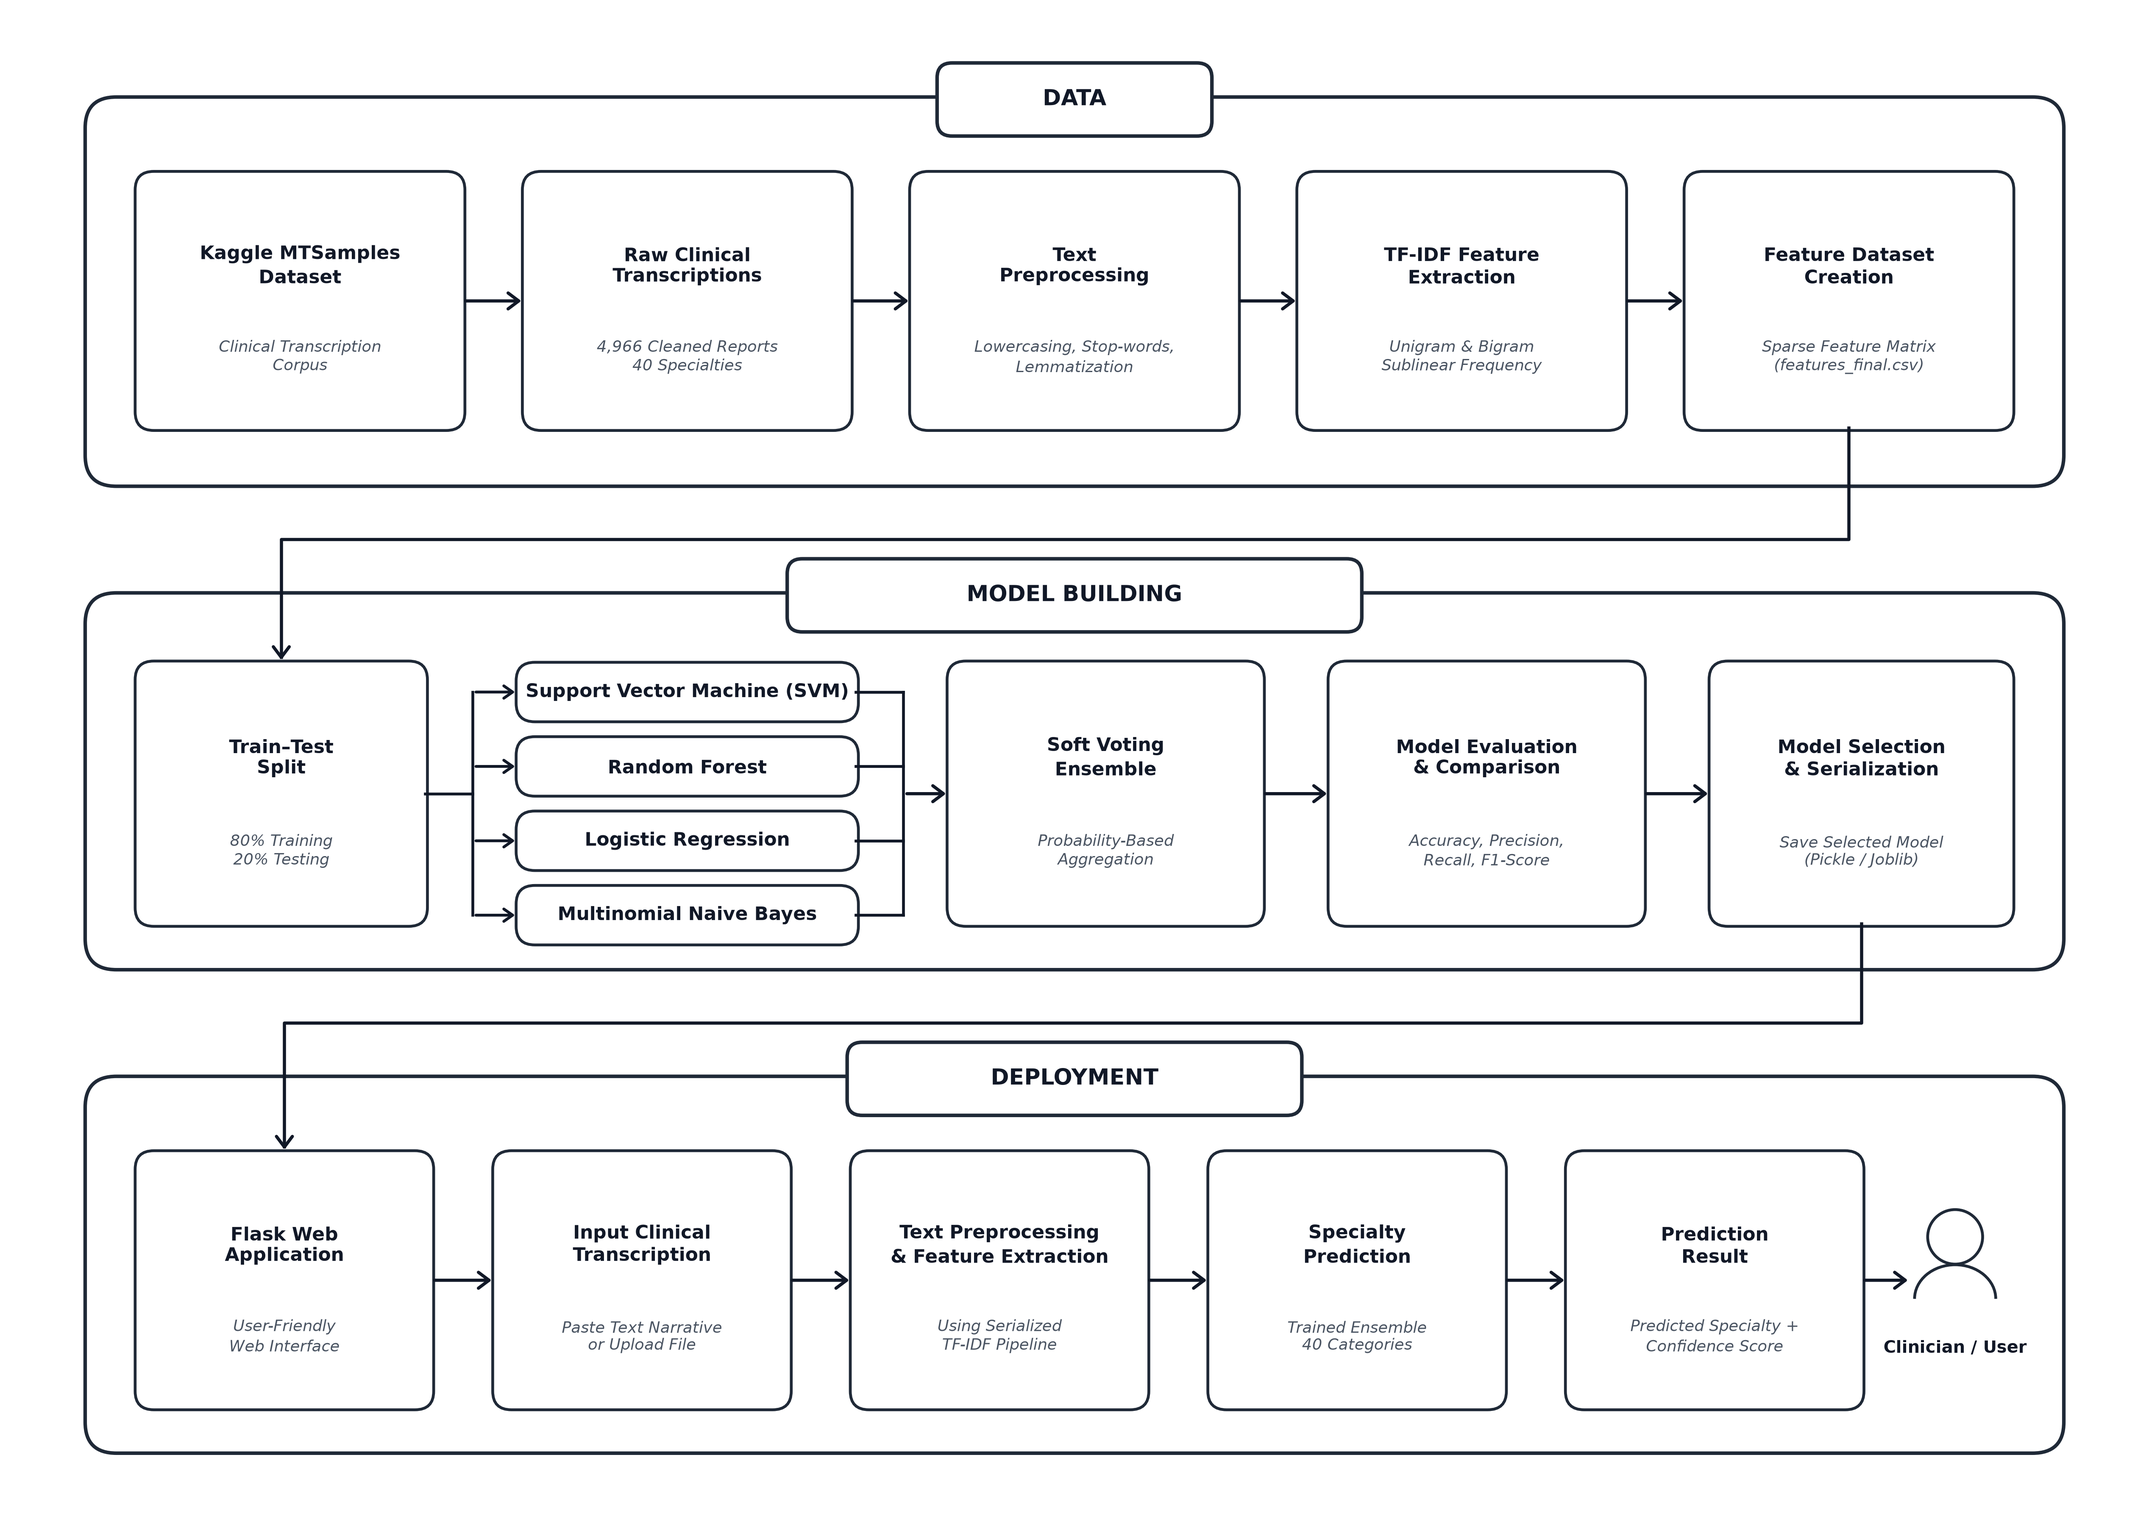
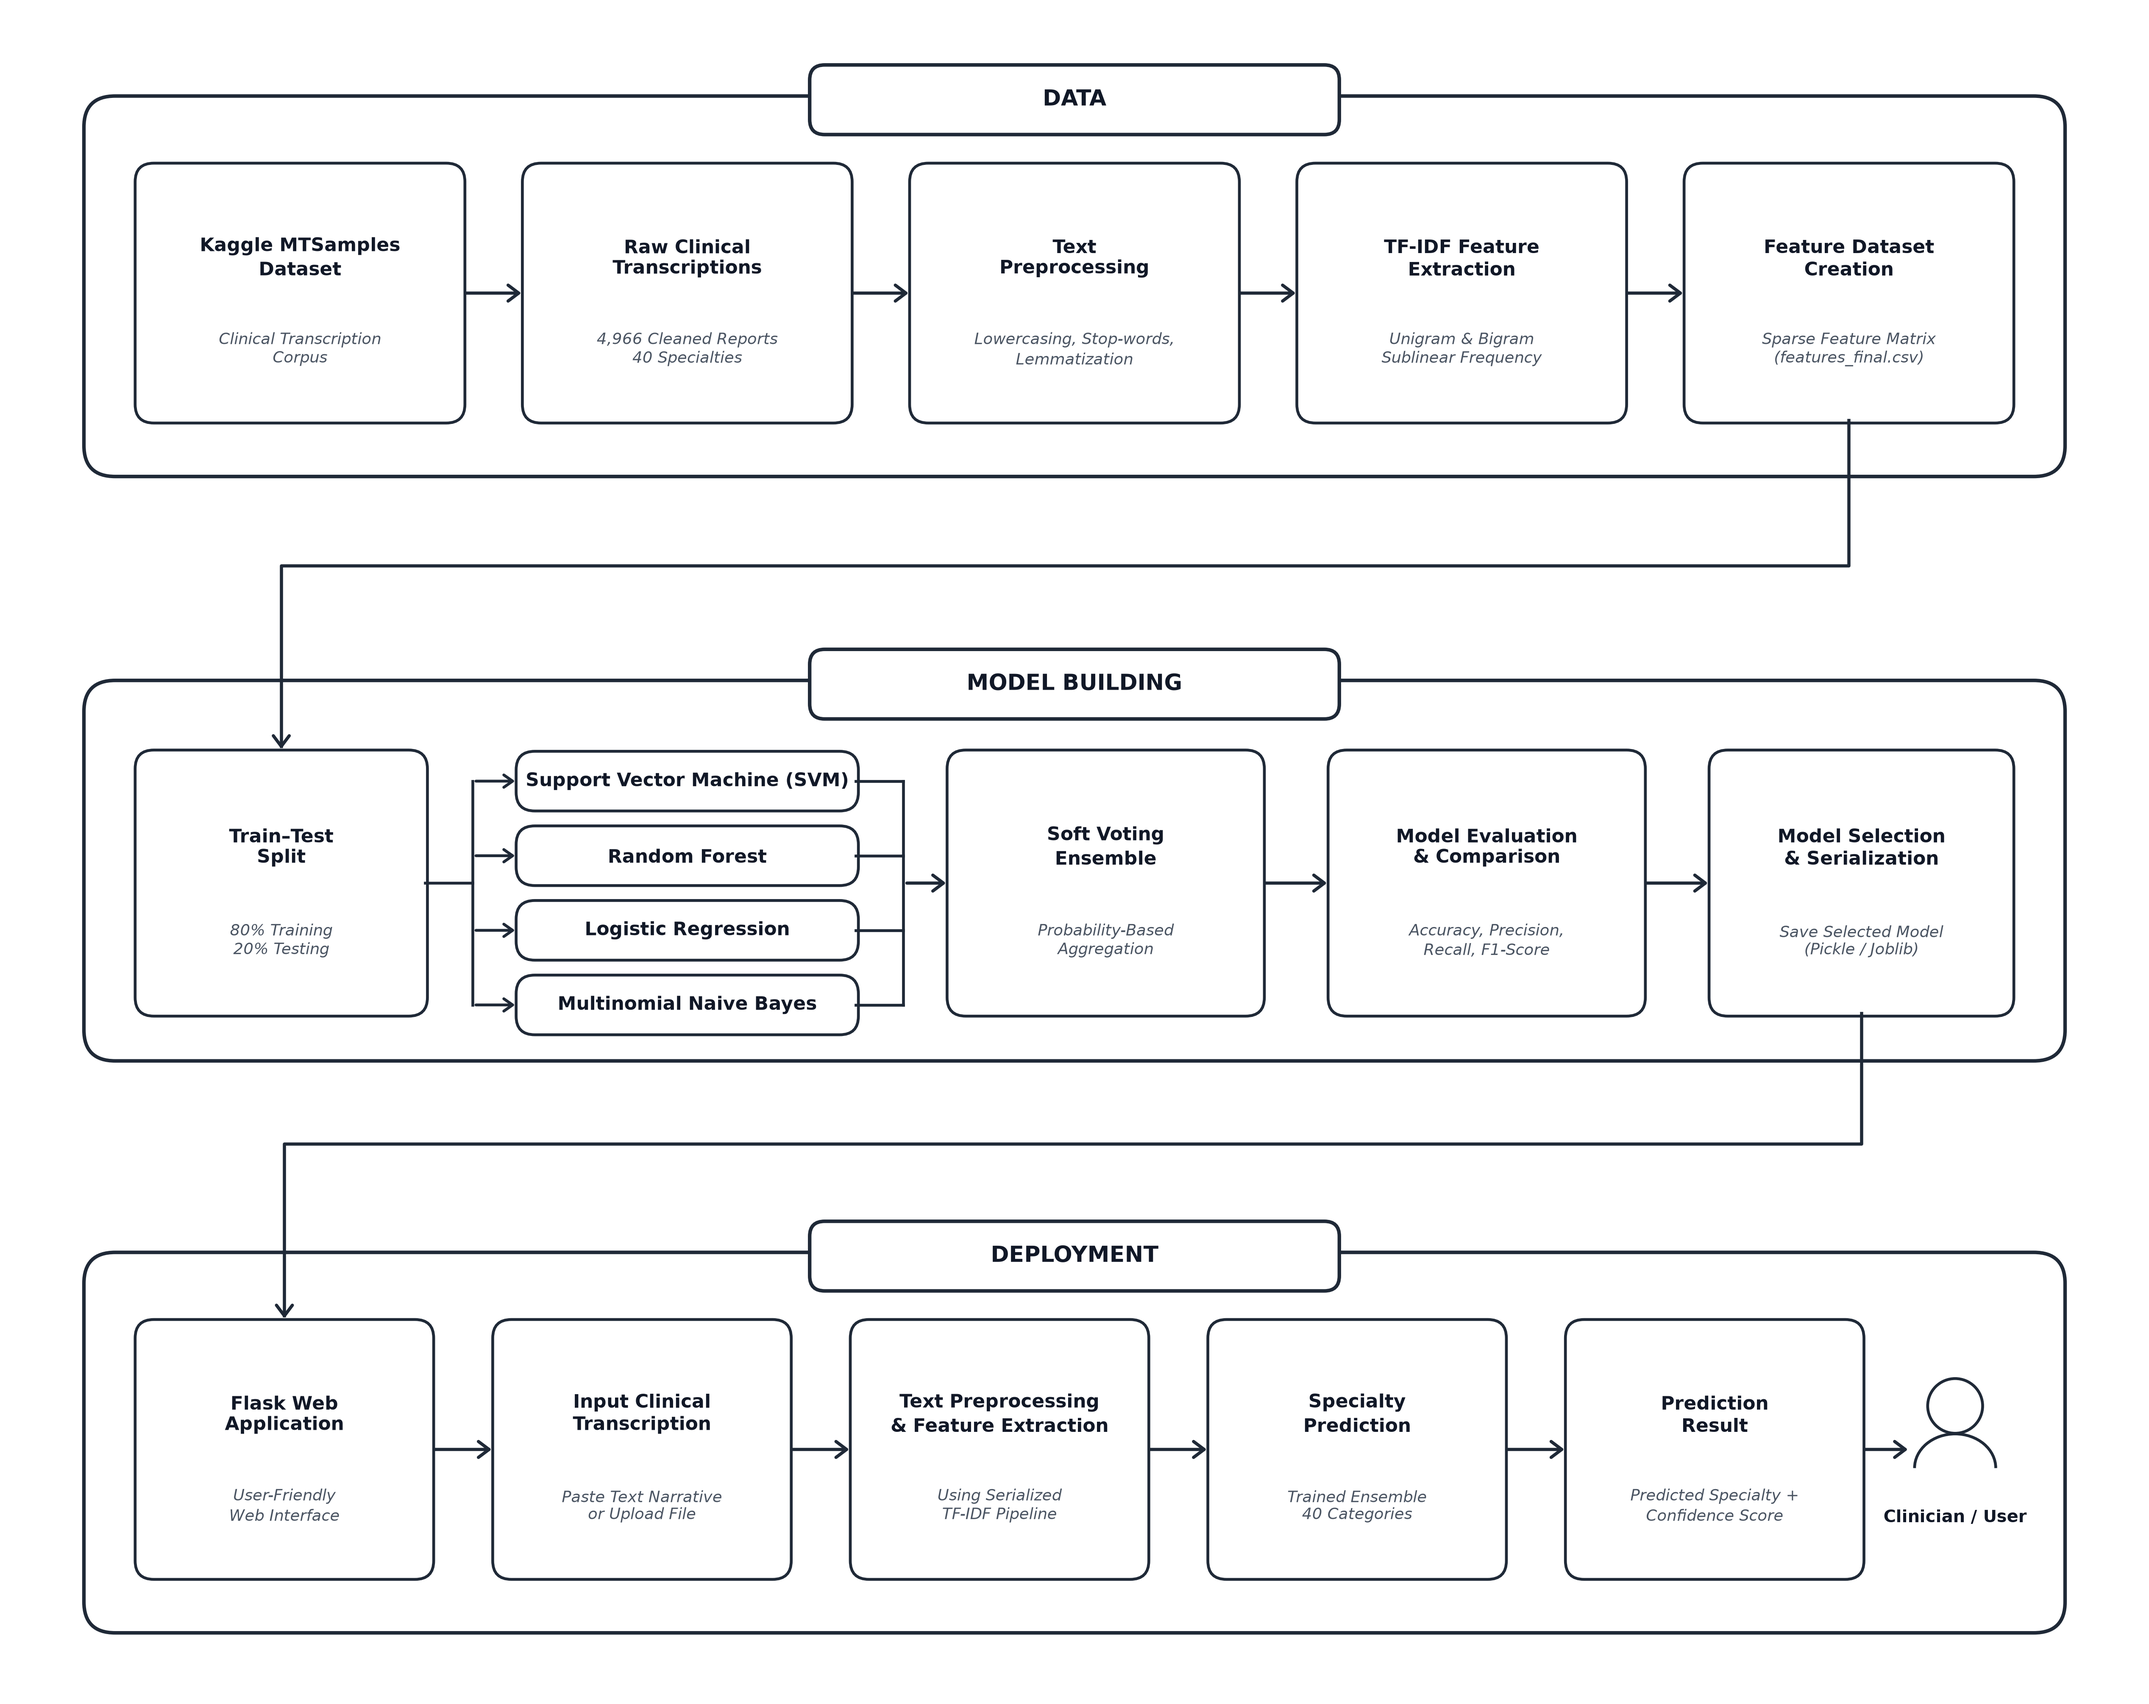
feat: add system architecture visualization script and documentation for chapter 3

diff --git a/generate_pipeline.py b/generate_pipeline.py
@@ -1,0 +1,171 @@
+import matplotlib.pyplot as plt
+import matplotlib.patches as patches
+
+# Set up canvas
+fig, ax = plt.subplots(figsize=(17, 13.5), dpi=300)
+ax.set_xlim(0, 17)
+ax.set_ylim(0, 13.5)
+ax.axis('off')
+
+# Styling palette (Clean Monochrome / Minimalist Academic)
+BORDER_COLOR = '#1F2937'  # Dark slate gray
+LINE_COLOR = '#1F2937'
+
+def draw_container(ax, x, y, w, h, title):
+    # Main rounded container box
+    rect = patches.FancyBboxPatch((x, y), w, h, boxstyle='round,pad=0.03,rounding_size=0.25',
+                                  facecolor='#FFFFFF', edgecolor=BORDER_COLOR, linewidth=2.0)
+    ax.add_patch(rect)
+    
+    # Title badge / tab centered on top border
+    tw, th = 4.2, 0.52
+    tx = x + (w - tw) / 2
+    ty = y + h - th / 2
+    tab = patches.FancyBboxPatch((tx, ty), tw, th, boxstyle='round,pad=0.02,rounding_size=0.12',
+                                 facecolor='#FFFFFF', edgecolor=BORDER_COLOR, linewidth=2.0)
+    ax.add_patch(tab)
+    ax.text(tx + tw/2, ty + th/2, title, ha='center', va='center', fontsize=12.5, fontweight='bold', color='#111827')
+
+def draw_box(ax, x, y, w, h, title, subtitle=''):
+    rect = patches.FancyBboxPatch((x, y), w, h, boxstyle='round,pad=0.02,rounding_size=0.15',
+                                  facecolor='#FFFFFF', edgecolor=BORDER_COLOR, linewidth=1.6)
+    ax.add_patch(rect)
+    if subtitle:
+        ax.text(x + w/2, y + h*0.64, title, ha='center', va='center', fontsize=10.5, fontweight='bold', color='#111827', linespacing=1.2)
+        ax.text(x + w/2, y + h*0.28, subtitle, ha='center', va='center', fontsize=8.8, color='#4B5563', style='italic', linespacing=1.2)
+    else:
+        ax.text(x + w/2, y + h/2, title, ha='center', va='center', fontsize=10.5, fontweight='bold', color='#111827', linespacing=1.2)
+
+# ======================== CONTAINER 1: DATA ========================
+c1_x, c1_y, c1_w, c1_h = 0.6, 9.8, 15.8, 3.0
+draw_container(ax, c1_x, c1_y, c1_w, c1_h, 'DATA')
+
+b_w = 2.6
+b_h = 2.05
+b_y = 10.22
+gaps = (c1_w - 0.8 - 5 * b_w) / 4
+xs = [c1_x + 0.4 + i * (b_w + gaps) for i in range(5)]
+
+draw_box(ax, xs[0], b_y, b_w, b_h, 'Kaggle MTSamples\nDataset', 'Clinical Transcription\nCorpus')
+draw_box(ax, xs[1], b_y, b_w, b_h, 'Raw Clinical\nTranscriptions', '4,966 Cleaned Reports\n40 Specialties')
+draw_box(ax, xs[2], b_y, b_w, b_h, 'Text\nPreprocessing', 'Lowercasing, Stop-words,\nLemmatization')
+draw_box(ax, xs[3], b_y, b_w, b_h, 'TF-IDF Feature\nExtraction', 'Unigram & Bigram\nSublinear Frequency')
+draw_box(ax, xs[4], b_y, b_w, b_h, 'Feature Dataset\nCreation', 'Sparse Feature Matrix\n(features_final.csv)')
+
+for i in range(4):
+    ax.annotate('', xy=(xs[i+1], b_y + b_h/2), xytext=(xs[i] + b_w, b_y + b_h/2),
+                arrowprops=dict(arrowstyle='->,head_width=0.45,head_length=0.6', color=LINE_COLOR, lw=1.8))
+
+# ======================== CONTAINER 2: MODEL BUILDING ========================
+c2_x, c2_y, c2_w, c2_h = 0.6, 5.1, 15.8, 3.0
+draw_container(ax, c2_x, c2_y, c2_w, c2_h, 'MODEL BUILDING')
+
+# Box 1: Train-Test Split
+m1_x = c2_x + 0.4
+m1_w = 2.3
+m1_h = 2.1
+m1_y = 5.45
+draw_box(ax, m1_x, m1_y, m1_w, m1_h, 'Train–Test\nSplit', '80% Training\n20% Testing')
+
+# Route from Container 1 (Feature Dataset) to Container 2 (Train-Test Split)
+# Channel 1: y between 8.36 (MODEL BUILDING tab top) and 9.8 (Container 1 bottom).
+# Midline is at y = 9.05, offering >0.68 clearance above section heading tab!
+p1_start = (xs[4] + b_w/2, b_y)
+m1_top_center = (m1_x + m1_w/2, m1_y + m1_h)
+ax.plot([p1_start[0], p1_start[0], m1_top_center[0], m1_top_center[0]],
+        [p1_start[1], 9.05, 9.05, m1_top_center[1] + 0.05], color=LINE_COLOR, lw=1.8)
+ax.annotate('', xy=m1_top_center, xytext=(m1_top_center[0], m1_top_center[1] + 0.1),
+            arrowprops=dict(arrowstyle='->,head_width=0.45,head_length=0.6', color=LINE_COLOR, lw=1.8))
+
+# 4 Models Stack
+c_x = m1_x + m1_w + 0.75
+c_w = 2.7
+c_h = 0.44
+c_ys = [7.1, 6.5, 5.9, 5.3]
+draw_box(ax, c_x, c_ys[0], c_w, c_h, 'Support Vector Machine (SVM)')
+draw_box(ax, c_x, c_ys[1], c_w, c_h, 'Random Forest')
+draw_box(ax, c_x, c_ys[2], c_w, c_h, 'Logistic Regression')
+draw_box(ax, c_x, c_ys[3], c_w, c_h, 'Multinomial Naive Bayes')
+
+# Orthogonal Bus from Train-Test Split to 4 Models
+bus1_x = m1_x + m1_w + 0.38
+mid_y = 6.5
+ax.plot([m1_x + m1_w, bus1_x], [mid_y, mid_y], color=LINE_COLOR, lw=1.6)
+ax.plot([bus1_x, bus1_x], [c_ys[3] + c_h/2, c_ys[0] + c_h/2], color=LINE_COLOR, lw=1.6)
+for cy in c_ys:
+    ax.annotate('', xy=(c_x, cy + c_h/2), xytext=(bus1_x, cy + c_h/2),
+                arrowprops=dict(arrowstyle='->,head_width=0.35,head_length=0.5', color=LINE_COLOR, lw=1.6))
+
+# Box 3: Soft Voting Ensemble
+ens_x = c_x + c_w + 0.75
+ens_w = 2.5
+ens_h = 2.1
+draw_box(ax, ens_x, m1_y, ens_w, ens_h, 'Soft Voting\nEnsemble', 'Probability-Based\nAggregation')
+
+# Orthogonal Bus from 4 Models to Voting Ensemble
+bus2_x = c_x + c_w + 0.38
+ax.plot([bus2_x, bus2_x], [c_ys[3] + c_h/2, c_ys[0] + c_h/2], color=LINE_COLOR, lw=1.6)
+for cy in c_ys:
+    ax.plot([c_x + c_w, bus2_x], [cy + c_h/2, cy + c_h/2], color=LINE_COLOR, lw=1.6)
+ax.annotate('', xy=(ens_x, mid_y), xytext=(bus2_x, mid_y),
+            arrowprops=dict(arrowstyle='->,head_width=0.45,head_length=0.6', color=LINE_COLOR, lw=1.8))
+
+# Box 4: Model Evaluation & Comparison
+eval_x = ens_x + ens_w + 0.55
+eval_w = 2.5
+draw_box(ax, eval_x, m1_y, eval_w, ens_h, 'Model Evaluation\n& Comparison', 'Accuracy, Precision,\nRecall, F1-Score')
+ax.annotate('', xy=(eval_x, mid_y), xytext=(ens_x + ens_w, mid_y),
+            arrowprops=dict(arrowstyle='->,head_width=0.45,head_length=0.6', color=LINE_COLOR, lw=1.8))
+
+# Box 5: Model Selection & Serialization
+best_x = eval_x + eval_w + 0.55
+best_w = 2.4
+draw_box(ax, best_x, m1_y, best_w, ens_h, 'Model Selection\n& Serialization', 'Save Selected Model\n(Pickle / Joblib)')
+ax.annotate('', xy=(best_x, mid_y), xytext=(eval_x + eval_w, mid_y),
+            arrowprops=dict(arrowstyle='->,head_width=0.45,head_length=0.6', color=LINE_COLOR, lw=1.8))
+
+# ======================== CONTAINER 3: DEPLOYMENT ========================
+c3_x, c3_y, c3_w, c3_h = 0.6, 0.5, 15.8, 3.0
+draw_container(ax, c3_x, c3_y, c3_w, c3_h, 'DEPLOYMENT')
+
+# 5 Boxes in Deployment
+dep_w = 2.35
+dep_h = 2.05
+dep_y = 0.92
+dep_gaps = (c3_w - 0.8 - 5 * dep_w - 1.2) / 4
+dep_xs = [c3_x + 0.4 + i * (dep_w + dep_gaps) for i in range(5)]
+
+draw_box(ax, dep_xs[0], dep_y, dep_w, dep_h, 'Flask Web\nApplication', 'User-Friendly\nWeb Interface')
+draw_box(ax, dep_xs[1], dep_y, dep_w, dep_h, 'Input Clinical\nTranscription', 'Paste Text Narrative\nor Upload File')
+draw_box(ax, dep_xs[2], dep_y, dep_w, dep_h, 'Text Preprocessing\n& Feature Extraction', 'Using Serialized\nTF-IDF Pipeline')
+draw_box(ax, dep_xs[3], dep_y, dep_w, dep_h, 'Specialty\nPrediction', 'Trained Ensemble\n40 Categories')
+draw_box(ax, dep_xs[4], dep_y, dep_w, dep_h, 'Prediction\nResult', 'Predicted Specialty +\nConfidence Score')
+
+for i in range(4):
+    ax.annotate('', xy=(dep_xs[i+1], dep_y + dep_h/2), xytext=(dep_xs[i] + dep_w, dep_y + dep_h/2),
+                arrowprops=dict(arrowstyle='->,head_width=0.45,head_length=0.6', color=LINE_COLOR, lw=1.8))
+
+# Route from Container 2 (Model Selection) to Container 3 (Flask App)
+# Channel 2: y between 3.76 (DEPLOYMENT tab top) and 5.1 (Container 2 bottom).
+# Midline is at y = 4.40, offering >0.64 clearance above section heading tab!
+p2_start = (best_x + best_w/2, m1_y)
+dep1_top_center = (dep_xs[0] + dep_w/2, dep_y + dep_h)
+ax.plot([p2_start[0], p2_start[0], dep1_top_center[0], dep1_top_center[0]],
+        [p2_start[1], 4.40, 4.40, dep1_top_center[1] + 0.05], color=LINE_COLOR, lw=1.8)
+ax.annotate('', xy=dep1_top_center, xytext=(dep1_top_center[0], dep1_top_center[1] + 0.1),
+            arrowprops=dict(arrowstyle='->,head_width=0.45,head_length=0.6', color=LINE_COLOR, lw=1.8))
+
+# Clinician / User Icon & Label at far right of Deployment
+user_x = dep_xs[4] + dep_w + 0.4
+user_y = dep_y + dep_h/2
+circle = patches.Circle((user_x + 0.35, user_y + 0.35), 0.22, facecolor='#FFFFFF', edgecolor=BORDER_COLOR, lw=1.6)
+ax.add_patch(circle)
+arc = patches.Arc((user_x + 0.35, user_y - 0.15), 0.65, 0.55, theta1=0, theta2=180, edgecolor=BORDER_COLOR, lw=1.6)
+ax.add_patch(arc)
+ax.text(user_x + 0.35, user_y - 0.55, 'Clinician / User', ha='center', va='center', fontsize=9.5, fontweight='bold', color='#111827')
+ax.annotate('', xy=(user_x, user_y), xytext=(dep_xs[4] + dep_w, user_y),
+            arrowprops=dict(arrowstyle='->,head_width=0.45,head_length=0.6', color=LINE_COLOR, lw=1.8))
+
+plt.tight_layout()
+plt.savefig('Inital Report/EDA_Diagrams/07_project_pipeline.png', dpi=300, bbox_inches='tight')
+print('Successfully regenerated 07_project_pipeline.png with ample clearance above section headings.')

diff --git a/Inital Report/chapters/chapter3.tex b/Inital Report/chapters/chapter3.tex
@@ -651,25 +651,27 @@ By integrating linear probabilistic modeling (Logistic Regression), maximum-marg
     arrow/.style={draw, -latex', semithick}]
     
     \node [startstop] (start) at (0, 0) {START};
-    \node [process, below=0.3cm of start] (input) {TF-IDF Feature Vector Input};
+    \node [process, below=0.35cm of start] (input) {TF-IDF Feature Vector Input};
     
-    % Symmetrically positioned candidate classifiers with 3.0cm spacing (no overlap)
-    \node [smallbox] (lr)  at (-4.5, -1.85) {Logistic\\Regression};
-    \node [smallbox] (svm) at (-1.5, -1.85) {Linear\\SVC / SVM};
-    \node [smallbox] (rf)  at (1.5, -1.85) {Random\\Forest};
-    \node [smallbox] (nb)  at (4.5, -1.85) {Multinomial\\Naive Bayes};
+    % Symmetrically positioned candidate classifiers with ample 1.05cm clearance below input
+    \node [smallbox, below=1.05cm of input, xshift=-4.5cm] (lr)  {Logistic\\Regression};
+    \node [smallbox, below=1.05cm of input, xshift=-1.5cm] (svm) {Linear\\SVC / SVM};
+    \node [smallbox, below=1.05cm of input, xshift=1.5cm]  (rf)  {Random\\Forest};
+    \node [smallbox, below=1.05cm of input, xshift=4.5cm]  (nb)  {Multinomial\\Naive Bayes};
     
-    \node [process, text width=13cm] (collect) at (0, -3.3) {Collect Predictions from All Classifiers};
+    \coordinate (bus1) at ([yshift=-0.52cm]input.south);
+    
+    \node [process, text width=13cm, below=0.85cm of svm, xshift=1.5cm] (collect) {Collect Predictions from All Classifiers};
     \node [process, below=0.35cm of collect] (vote) {Apply Soft-Voting Aggregation Strategy};
     \node [process, below=0.35cm of vote] (select) {Select Final Predicted Class ($\arg\max$)};
     \node [branch, below=0.35cm of select] (output) {Predicted Medical Specialty};
     \node [startstop, below=0.35cm of output] (end) {END};
     
     \path [arrow] (start) -- (input);
-    \path [arrow] (input.south) -- (0, -1.3) -| (lr.north);
-    \path [arrow] (input.south) -- (0, -1.3) -| (svm.north);
-    \path [arrow] (input.south) -- (0, -1.3) -| (rf.north);
-    \path [arrow] (input.south) -- (0, -1.3) -| (nb.north);
+    \path [arrow] (input.south) -- (bus1) -| (lr.north);
+    \path [arrow] (input.south) -- (bus1) -| (svm.north);
+    \path [arrow] (input.south) -- (bus1) -| (rf.north);
+    \path [arrow] (input.south) -- (bus1) -| (nb.north);
     
     % Parallel vertical drop lines into collect (no crossings)
     \path [arrow] (lr.south)  -- ([xshift=-4.5cm]collect.north);
